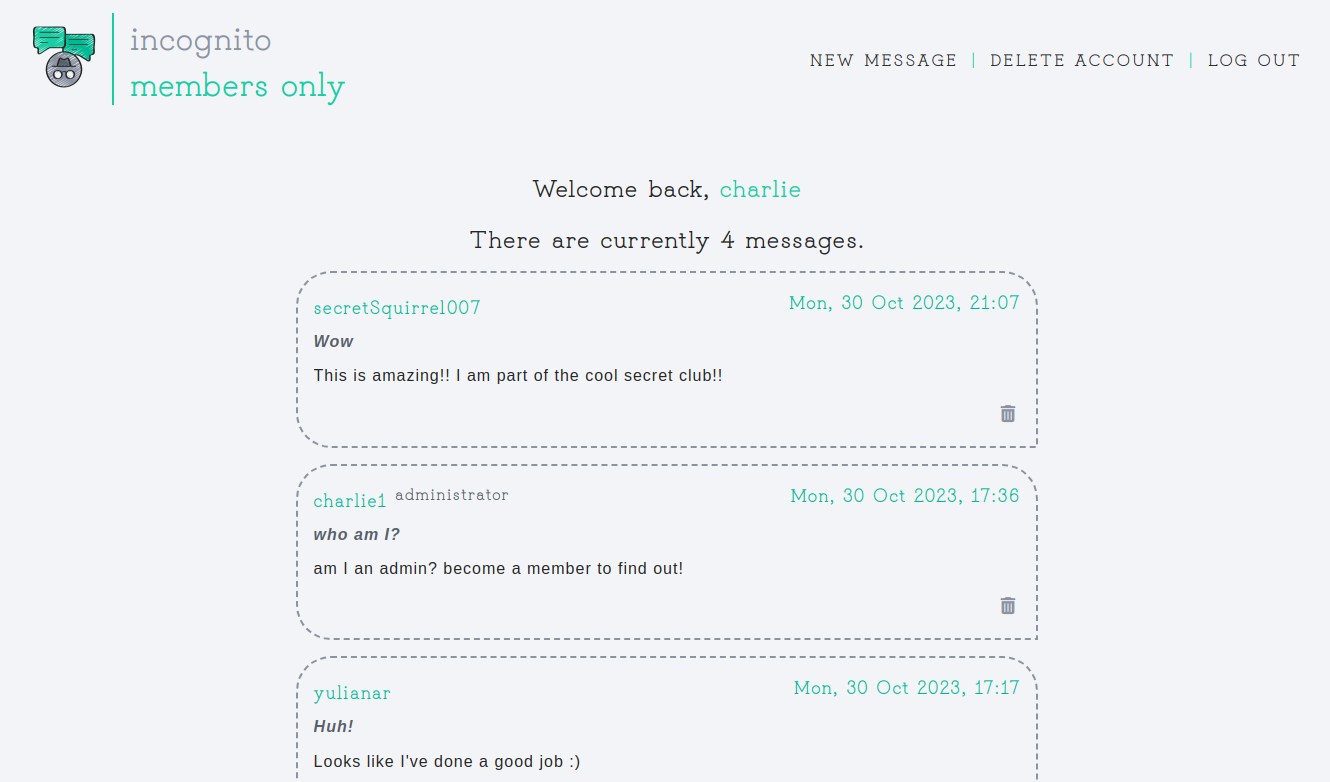
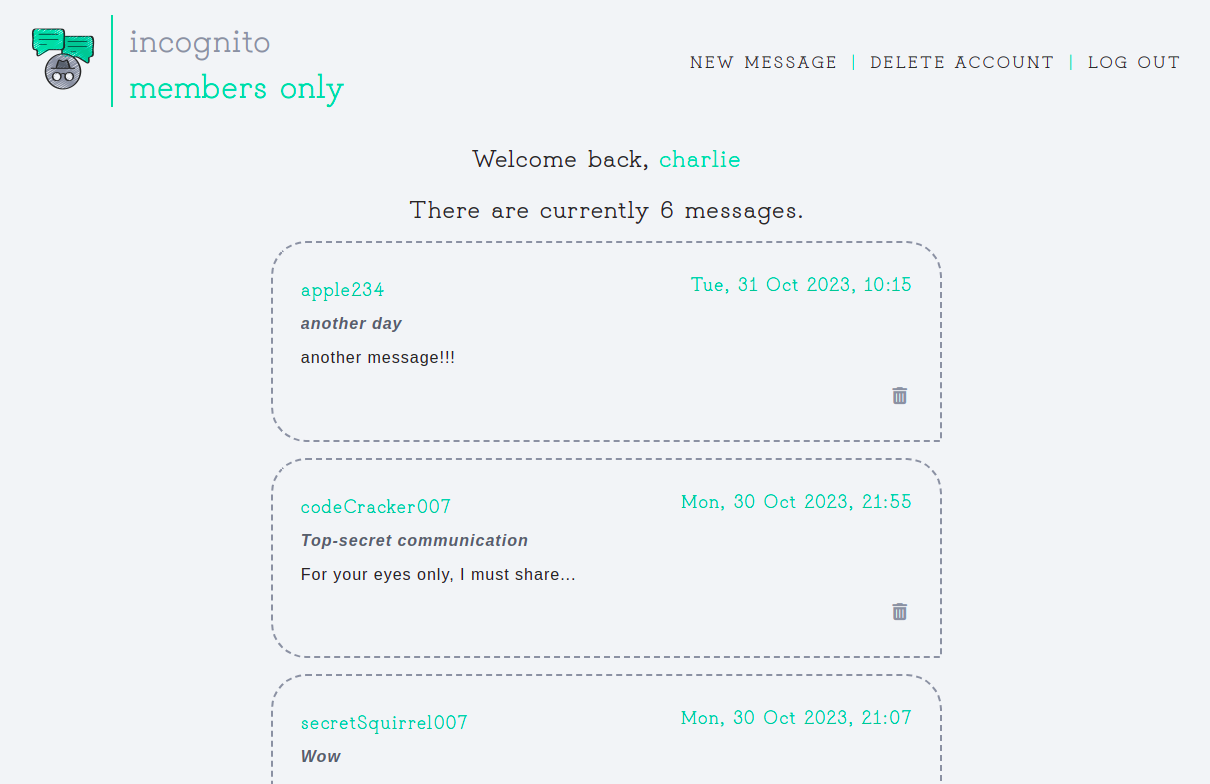
Update features view and README

diff --git a/public/stylesheets/style.css b/public/stylesheets/style.css
@@ -119,7 +119,7 @@ nav > a:hover {
 
 main {
   font-family: Arial, Helvetica, sans-serif;
-  padding: 3em;
+  padding: 1em 3em;
   width: 100%;
   display: flex;
   flex-direction: column;
@@ -146,22 +146,23 @@ h1 {
   color: var(--secondary-green);
   font-family: "Grandiflora One", cursive, serif;
   font-weight: bold;
-  font-size: 1.5em;
+  font-size: 1.3em;
   letter-spacing: 3px;
 }
 
 .features-container {
   display: flex;
   flex-direction: row;
-  justify-content: space-around;
+  justify-content: center;
   align-items: center;
-  width: 65%;
+  width: 50%;
   flex-wrap: wrap;
   border-radius: 5px;
-  padding: 2.5em;
+  padding: 1em 0;
   user-select: none;
-  gap: 2em;
+  gap: 1em;
   width: 100%;
+  margin-bottom: 0.25em;
   border-bottom: 2px dashed var(--primary-grey);
 }
 
@@ -171,17 +172,18 @@ h1 {
   width: 250px;
   min-height: 200px;
   height: fit-content;
-  gap: 1em;
+  gap: 0.5em;
+  padding: 0.5em;
   color: var(--primary-dark);
 }
 
 .feature-desc {
   line-height: 23px;
-  font-size: 1.1em;
+  font-size: 1.05em;
 }
 
 .feature-icon {
-  height: 50px;
+  height: 45px;
   border-left: var(--primary-green) 2px solid;
   object-fit: contain;
 }

diff --git a/public/stylesheets/posts.css b/public/stylesheets/posts.css
@@ -27,7 +27,7 @@
   color: var(--primary-dark);
   width: 60%;
   min-width: 250px;
-  padding: 1em;
+  padding: 1.75em;
   gap: 0.75em;
   border-radius: 35px 35px 0 35px;
 }
